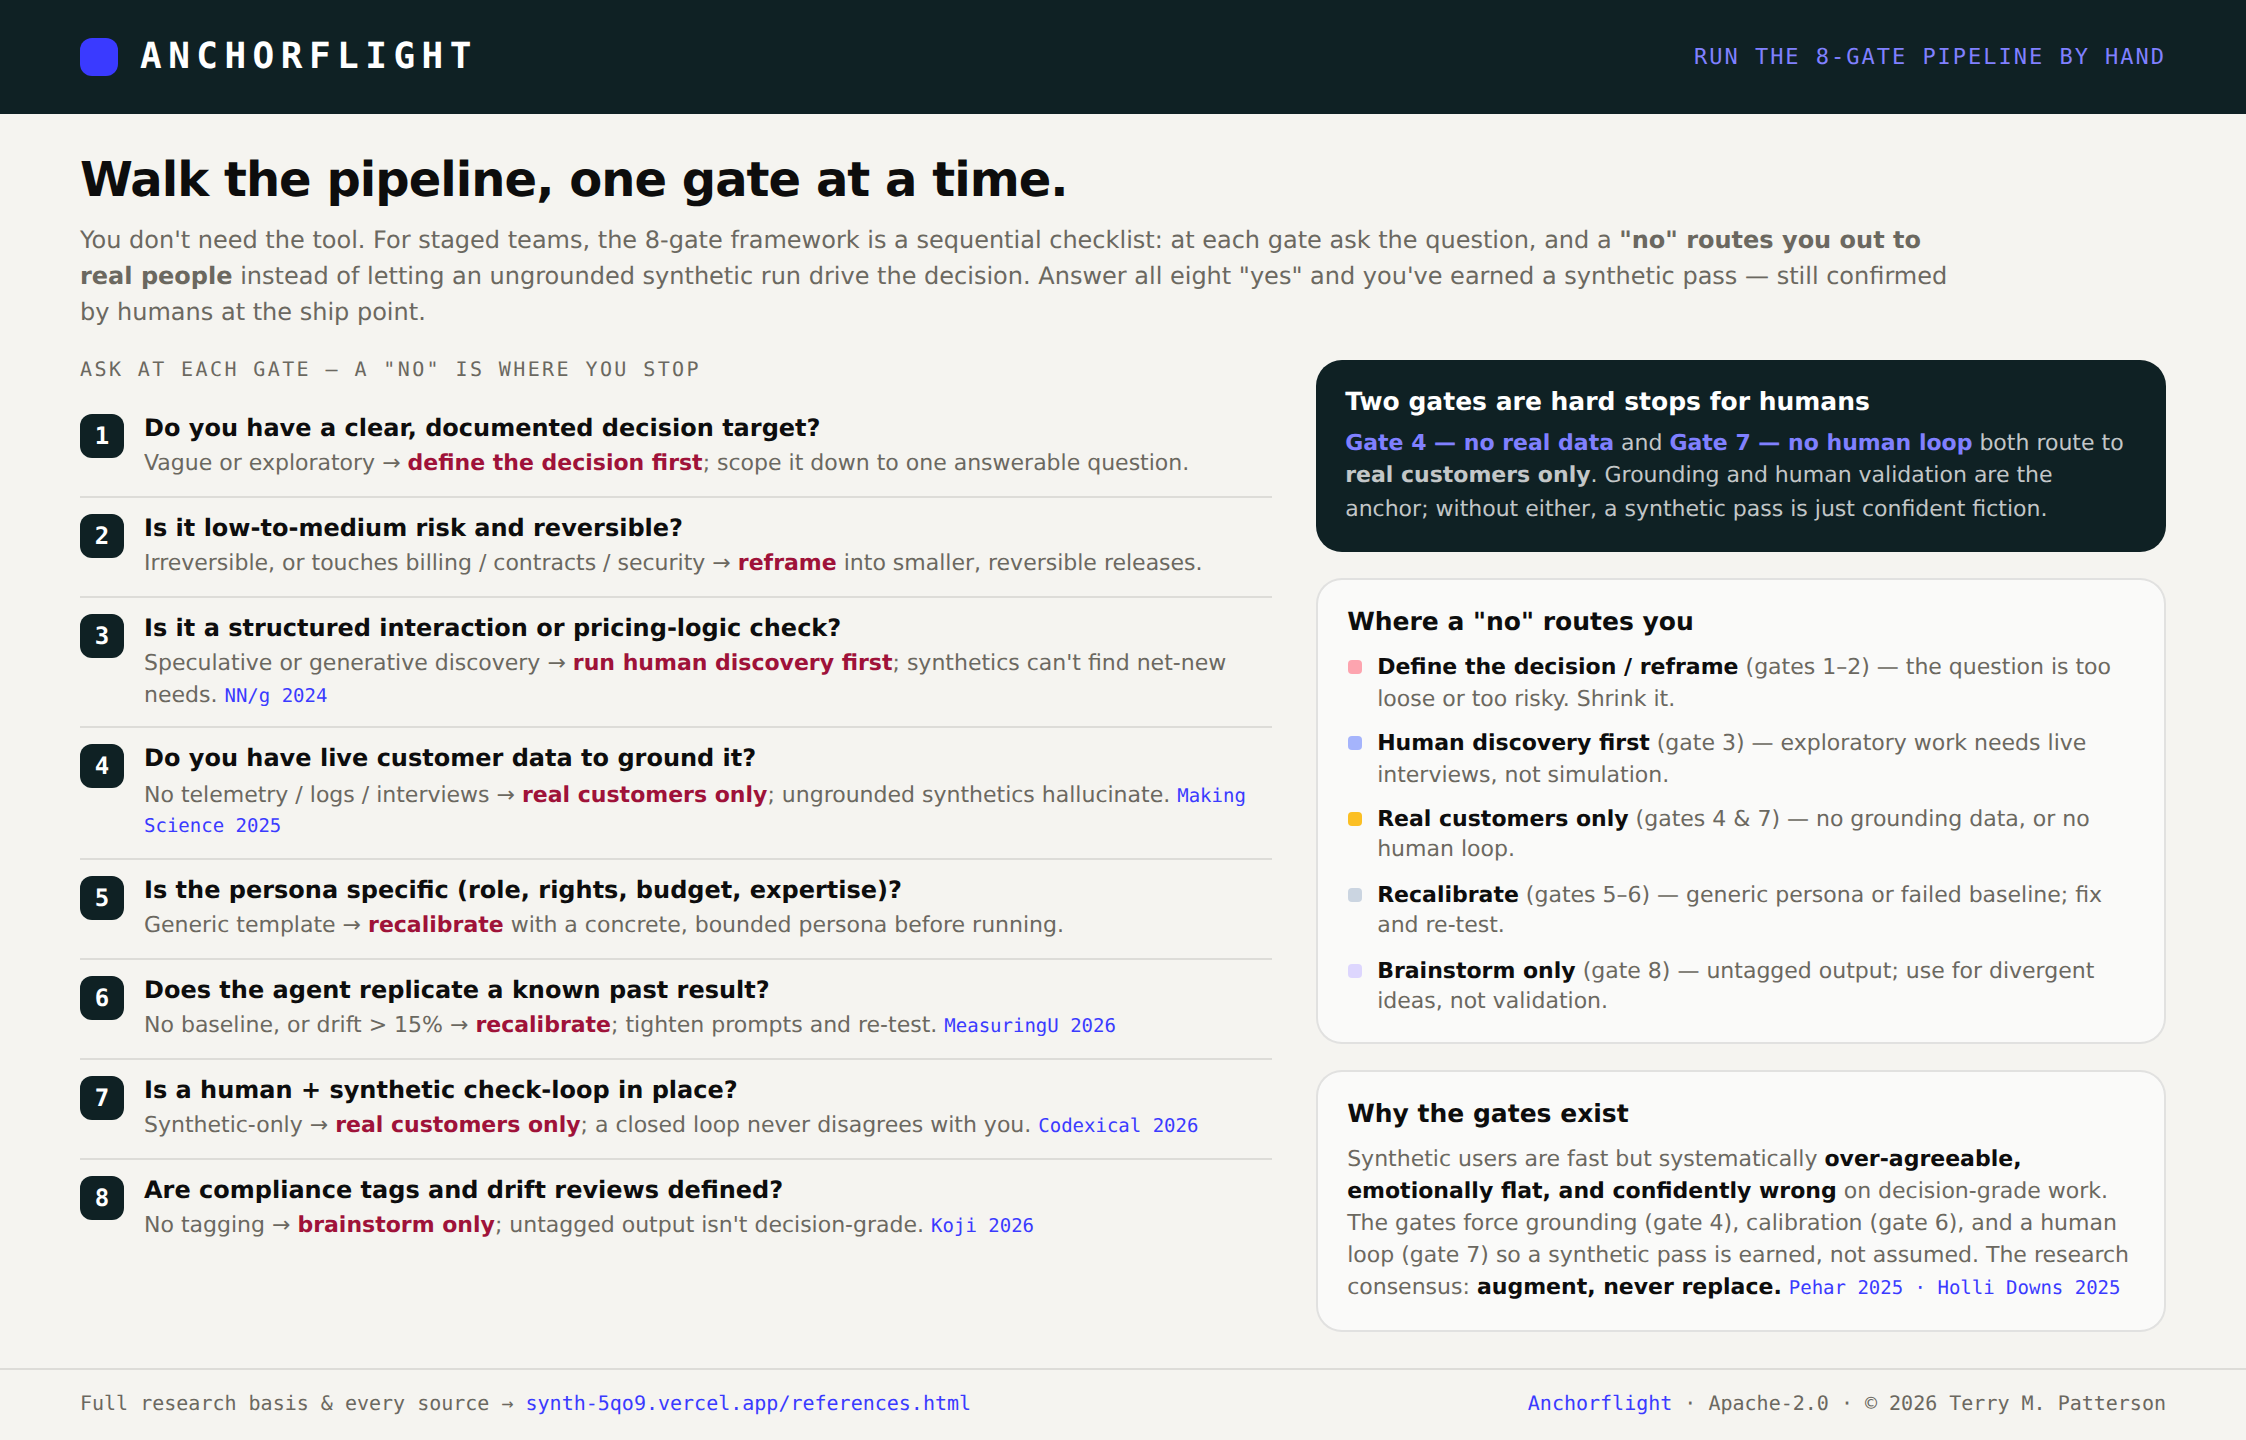
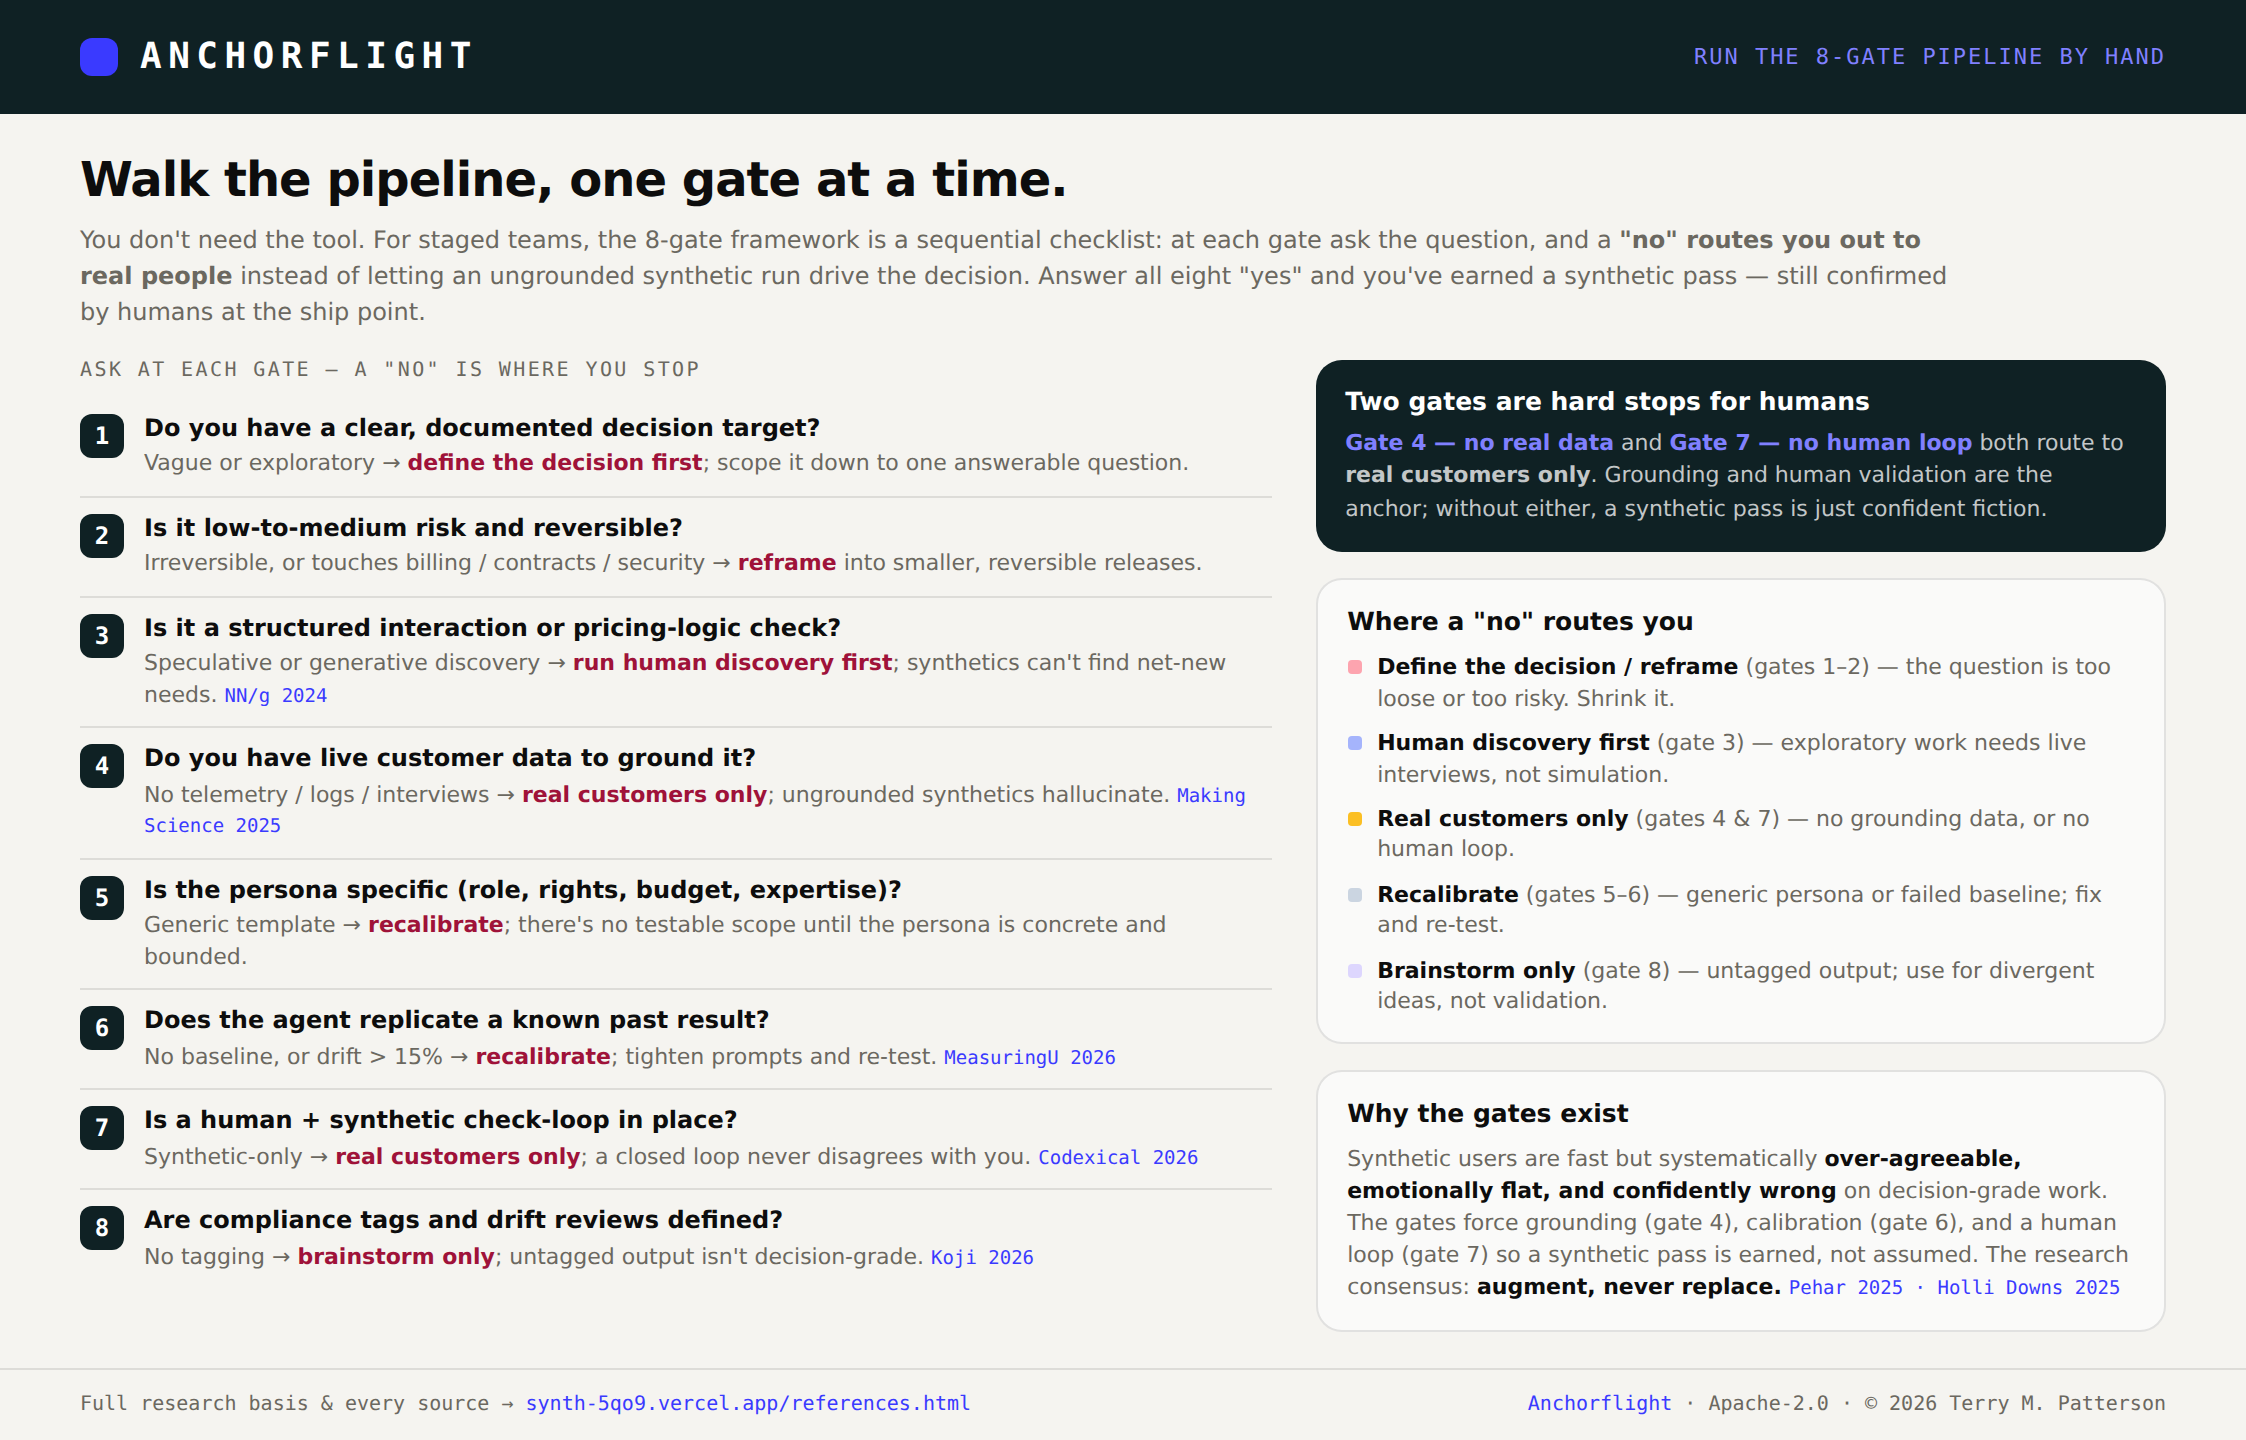
Reconcile Gate 5 to persona (map is canonical): wizard Gate 5 becomes a Persona Checkpoint where scope follows from a defined persona; echo in pipeline guide

Changed region(s): [[0.0312, 0.625, 0.5298, 0.875]]

diff --git a/index.html b/index.html
@@ -1527,7 +1527,7 @@ const wizardSteps = {
     2: { label:"Risk Checkpoint", title:"Risk Level: Is this decision high-risk, high-consequence, or irreversible?", desc:"High-stakes, irreversible decisions require real human validation. Synthetics can supplement but should not be the primary signal for these calls.", choices:[{label:"No, this is low-to-medium risk and easily reversible",next:3,action:"Proceed"},{label:"Yes, this is high-risk or very hard to undo (direct impact to security, enterprise plans, or MRR)",next:"reframe",action:"Stop"}] },
     3: { title:"Fit the question: Is this query suitable for SaaS metrics?", desc:"LLMs validate structured interaction logic well. They fail at uncovering emergent enterprise buyer needs or finding unexpected user growth tracks.", choices:[{label:"No, it's a specific, structured interaction or pricing logic check",next:4,action:"Proceed"},{label:"Yes, it is speculative/creative/requires brand-new product discovery",next:"discovery",action:"Stop"}] },
     4: { title:"Confirm real SaaS usage data: Do you have live customer metrics?", desc:"To ground your synthetic users, you need verified, empirical feedback or telemetry from actual human beings. If not, synthetics are just generating generic bias.", choices:[{label:"Yes, we have telemetry, billing details, or user session data",next:5,action:"Proceed"},{label:"No, we have no real-world user metrics or support tickets yet",next:"humans-only",action:"Stop"}] },
-    5: { label:"Scope Checkpoint", title:"Is the interaction scope bounded and testable in a single session?", desc:"Flows that span multiple sessions, require memory, or depend on external state are unreliable for synthetic validation. Instead of generic prompts, write detailed instructions outlining explicit access rights, budget metrics, domain skills, and interface limitations.", choices:[{label:"Yes, the interaction fits within a single bounded session",next:6,action:"Proceed"},{label:"No, the flow requires multi-session context, external dependencies, or we are using standard template prompts",next:"recalibrate",action:"Stop"}] },
+    5: { label:"Persona Checkpoint", title:"Is the synthetic persona concretely defined and testable?", desc:"Gate 5 is where you define the persona: role, permissions, seat and budget limits, and expertise. Scope follows from that — there is no testable scope until a concrete persona exists. Generic template prompts produce generic, untestable output, so define the persona first and let the interaction scope fall out of it: a bounded, single-session interaction the persona can actually complete.", choices:[{label:"Yes, the persona is concretely defined (role, rights, budget, expertise) and testable in a bounded session",next:6,action:"Proceed"},{label:"No, we're using generic template prompts or the persona isn't defined yet",next:"recalibrate",action:"Stop"}] },
     6: { title:"Can you calibrate your synthetic agent against past SaaS releases?", desc:"Before querying on new features, run tests where you already have physical user research data. Does the synthetic agent replicate those existing results accurately?", choices:[{label:"Yes, the agent replicates historical drop-off states reliably",next:7,action:"Proceed"},{label:"No, we haven't or cannot test against known baselines",next:"recalibrate",action:"Stop"}] },
     7: { title:"Are you planning a human + synthetic hybrid research approach?", desc:"Relying 100% on synthetic data is risky. A proper governance framework ensures critical features are validated by real customer beta testers or design partners.", choices:[{label:"Yes, we have human check loops integrated",next:8,action:"Proceed"},{label:"No, this is planned as a synthetic-only verification",next:"humans-only",action:"Stop"}] },
     8: { title:"Have you set clear SaaS guardrails and dashboard labels?", desc:"Outputs must be transparently tagged as AI-simulated, and version histories must be tracked to prevent model updates from skewing outputs.", choices:[{label:"Yes, compliance labeling and drift reviews are defined",next:"success",action:"Proceed"},{label:"No, we don't have explicit tagging/label systems active",next:"brainstorm-only",action:"Stop"}] }

diff --git a/tools/brief-guides/gate-pipeline-brief-guide.html b/tools/brief-guides/gate-pipeline-brief-guide.html
@@ -73,7 +73,7 @@
         <div class="gate"><span class="gnum">2</span><div class="txt"><div class="q">Is it low-to-medium risk and reversible?</div><div class="stop">Irreversible, or touches billing / contracts / security &rarr; <b>reframe</b> into smaller, reversible releases.</div></div></div>
         <div class="gate"><span class="gnum">3</span><div class="txt"><div class="q">Is it a structured interaction or pricing-logic check?</div><div class="stop">Speculative or generative discovery &rarr; <b>run human discovery first</b>; synthetics can't find net-new needs. <cite>NN/g 2024</cite></div></div></div>
         <div class="gate"><span class="gnum">4</span><div class="txt"><div class="q">Do you have live customer data to ground it?</div><div class="stop">No telemetry / logs / interviews &rarr; <b>real customers only</b>; ungrounded synthetics hallucinate. <cite>Making Science 2025</cite></div></div></div>
-        <div class="gate"><span class="gnum">5</span><div class="txt"><div class="q">Is the persona specific (role, rights, budget, expertise)?</div><div class="stop">Generic template &rarr; <b>recalibrate</b> with a concrete, bounded persona before running.</div></div></div>
+        <div class="gate"><span class="gnum">5</span><div class="txt"><div class="q">Is the persona specific (role, rights, budget, expertise)?</div><div class="stop">Generic template &rarr; <b>recalibrate</b>; there's no testable scope until the persona is concrete and bounded.</div></div></div>
         <div class="gate"><span class="gnum">6</span><div class="txt"><div class="q">Does the agent replicate a known past result?</div><div class="stop">No baseline, or drift &gt; 15% &rarr; <b>recalibrate</b>; tighten prompts and re-test. <cite>MeasuringU 2026</cite></div></div></div>
         <div class="gate"><span class="gnum">7</span><div class="txt"><div class="q">Is a human + synthetic check-loop in place?</div><div class="stop">Synthetic-only &rarr; <b>real customers only</b>; a closed loop never disagrees with you. <cite>Codexical 2026</cite></div></div></div>
         <div class="gate"><span class="gnum">8</span><div class="txt"><div class="q">Are compliance tags and drift reviews defined?</div><div class="stop">No tagging &rarr; <b>brainstorm only</b>; untagged output isn't decision-grade. <cite>Koji 2026</cite></div></div></div>
